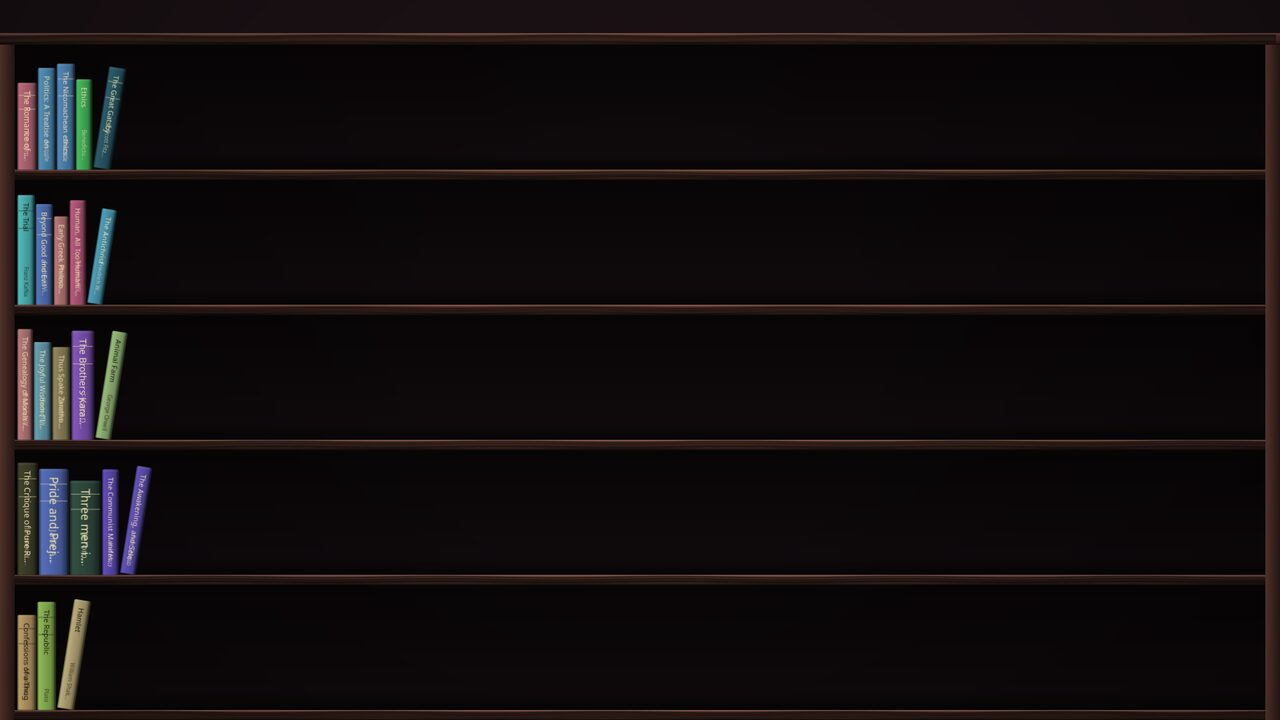
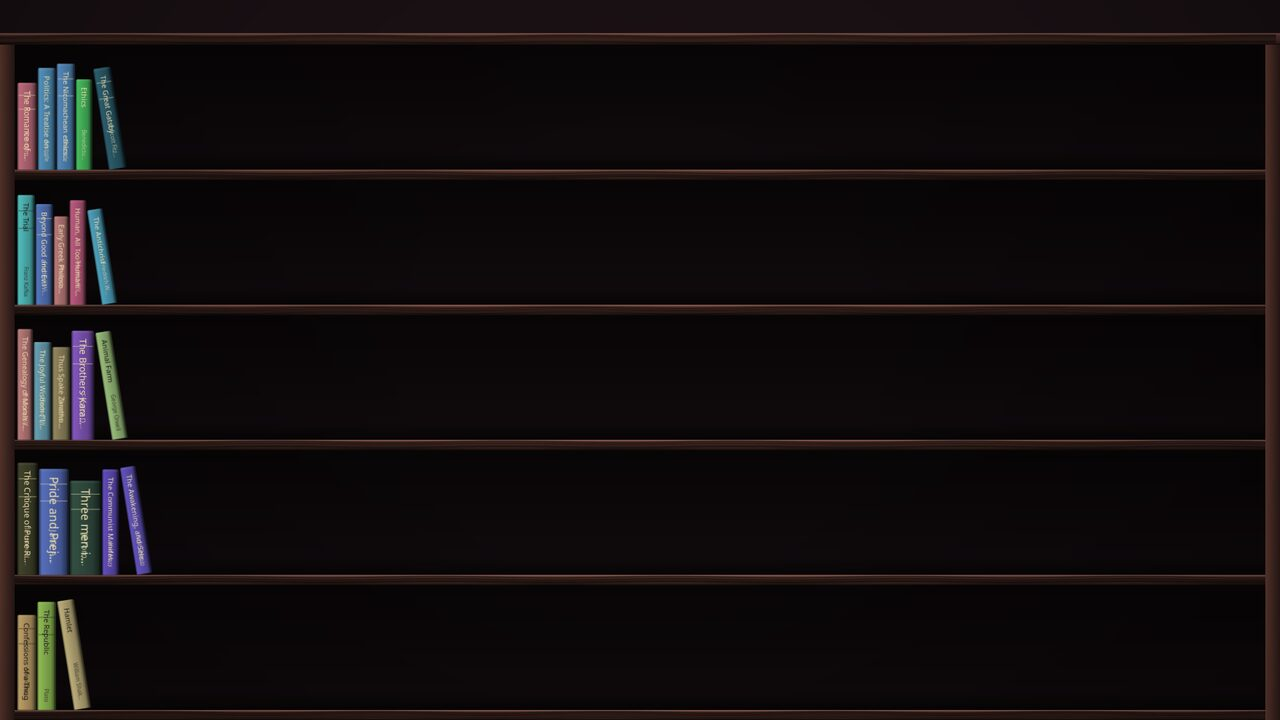
shelf: a book leans onto its neighbour, never into open air
A book only tips towards a side that has something to hold it up -- a
book beside it, or the case wall. The last book on a part-filled shelf
therefore leans left onto its neighbour, and a book with nothing on
either side stands upright.

The lean is drawn as the rest it actually is: the book turns on the
bottom corner still touching the plank and its base then slides along
that plank, so the leaning edge comes to rest flush against the
neighbour instead of passing through it. That overlay was the visible
bug; the direction was the rule behind it.

diff --git a/shelfwall.py b/shelfwall.py
@@ -928,6 +928,19 @@ class Shelf:
         every = int(self.cfg.get("face_out_every", 0) or 0)
         return "face" if (every and idx % every == 0) else "spine"
 
+    @staticmethod
+    def _lean_fit(h, room, tilt_max):
+        """The most a book of height h can lean with `room` beside it."""
+        if room <= 0 or h <= 0:
+            return 0.0
+        return min(tilt_max, math.degrees(
+            math.asin(max(0.0, min(1.0, room / h)))))
+
+    @staticmethod
+    def _pivot(it):
+        """The bottom corner a leaning book turns on: the one still on the plank."""
+        return ((it["x"] if it["deg"] < 0 else it["x"] + it["w"]), it["y_base"])
+
     def _tilt_deg(self):
         if not self.cfg.get("tilt_books", True):
             return 0.0
@@ -1012,11 +1025,13 @@ class Shelf:
             bh = maxh * rnd.uniform(0.74, 1.0)
             kind = self._kind_for(b, idx)
             w = bh * 0.66 if kind == "face" else th
-            # A book asked to lean is given the width it sweeps as it tips, so
-            # it tilts into room of its own rather than through its neighbour.
-            deg = tilt_max if kind == "tilt" else 0.0
-            sizes.append({"w": w, "h": bh, "kind": kind, "deg": deg,
-                          "advance": w + bh * math.sin(math.radians(deg))})
+            # A book asked to lean is given the width its base slides as it
+            # tips. Which side that room ends up on is decided at placement,
+            # once it is known what the book has to lean against.
+            sweep = (bh * math.sin(math.radians(tilt_max))
+                     if kind == "tilt" else 0.0)
+            sizes.append({"w": w, "h": bh, "kind": kind, "sweep": sweep,
+                          "advance": w + sweep})
 
         spacing = 1.2 * s
         span = avail - 8 * s
@@ -1070,24 +1085,35 @@ class Shelf:
 
             gap = x1 - x
             last = len(row_items) - 1
-            for k, (bi, b, bx, sz) in enumerate(row_items):
-                deg = sz["deg"]
-                if (deg == 0.0 and k == last and tilt_max > 0.0
-                        and sz["kind"] == "spine" and gap > 14 * s):
-                    # Tips into the empty end of the shelf, pivoting on the
-                    # bottom corner that stays on the plank, and never further
-                    # than the gap can take. Leaning the other way -- which is
-                    # what this used to do -- swings the board straight through
-                    # the book standing on its left.
-                    room = min(gap - 8 * s, sz["h"])
-                    deg = min(tilt_max, math.degrees(
-                        math.asin(max(0.0, min(1.0, room / sz["h"])))))
+            for k, (bi, b, slot_x, sz) in enumerate(row_items):
+                # A book only ever leans onto something that can hold it up: a
+                # book beside it, or the case wall. Leaning into open air is
+                # what a book does on its way to lying flat, not a pose it
+                # holds, so a book with nothing to rest on stands upright.
+                deg, box_x = 0.0, slot_x
+                leans_left = tilt_max > 0.0 and k > 0 and gap > 14 * s
+                if sz["kind"] == "tilt" and tilt_max > 0.0 and k < last:
+                    # Something stands to its right, so it tips that way and
+                    # rests against it. Its base slides left, into the room
+                    # reserved ahead of it.
+                    deg = tilt_max
+                    box_x = slot_x + sz["sweep"]
+                elif sz["kind"] == "tilt" and leans_left:
+                    deg = -self._lean_fit(sz["h"], gap - 8 * s, tilt_max)
+                elif (k == last and sz["kind"] == "spine" and leans_left):
+                    # The last book on a part-filled shelf: nothing to its
+                    # right, so it tips left onto its neighbour, its base
+                    # sliding out into the gap.
+                    deg = -self._lean_fit(sz["h"], gap - 8 * s, tilt_max)
                 self._items.append({
-                    "b": b, "x": bx, "y": y_base - sz["h"],
+                    "b": b, "x": box_x, "y": y_base - sz["h"],
                     "w": sz["w"], "h": sz["h"],
                     "kind": "face" if sz["kind"] == "face" else "spine",
-                    "deg": deg, "y_base": y_base, "s": s,
-                    "row": r, "index": bi,
+                    "deg": deg,
+                    # How far the base slides so the leaning edge comes to rest
+                    # flush against the neighbour instead of inside it.
+                    "shift": -sz["h"] * math.sin(math.radians(deg)),
+                    "y_base": y_base, "s": s, "row": r, "index": bi,
                 })
 
             wood_plank(cr, 0, y_base, W, plank, wood, r * 97)
@@ -1162,9 +1188,9 @@ class Shelf:
         pad = self._pad
         # A leaning book reaches past its upright box; padding the rectangle by
         # the sweep keeps the hover repaint from leaving a smear behind it.
-        sweep = it["h"] * math.sin(math.radians(it.get("deg", 0.0)))
-        return (it["x"] - pad, it["y"] - pad,
-                it["w"] + pad * 2 + sweep, it["h"] + pad * 2)
+        sweep = abs(it["h"] * math.sin(math.radians(it.get("deg", 0.0))))
+        return (it["x"] - pad - sweep, it["y"] - pad,
+                it["w"] + pad * 2 + sweep * 2, it["h"] + pad * 2)
 
     def animate_step(self):
         """Advance the hover animation; returns the rectangle to repaint."""
@@ -1261,8 +1287,11 @@ class Shelf:
             deg = it.get("deg", 0.0)
             cr.save()
             if deg:
-                # Pivots on the bottom corner that stays on the plank.
-                px, py = it["x"] + it["w"], it["y_base"]
+                # Turn on the bottom corner still touching the plank, then
+                # slide the base along it so the top edge comes to rest
+                # against the neighbour rather than passing through it.
+                px, py = self._pivot(it)
+                cr.translate(it["shift"], 0)
                 cr.translate(px, py)
                 cr.rotate(math.radians(deg))
                 cr.translate(-px, -py)
@@ -1300,10 +1329,10 @@ class Shelf:
             deg = it.get("deg", 0.0)
             qx, qy = px, py
             if deg:
-                # Undo the lean, then test the book's own upright box.
+                # Undo the slide and the lean, then test the upright box.
                 a = math.radians(deg)
-                cx, cy = x + w, it["y_base"]
-                dx, dy = px - cx, py - cy
+                cx, cy = self._pivot(it)
+                dx, dy = px - it["shift"] - cx, py - cy
                 qx = cx + dx * math.cos(a) + dy * math.sin(a)
                 qy = cy - dx * math.sin(a) + dy * math.cos(a)
             if x <= qx <= x + w and y <= qy <= y + h:

diff --git a/tests/test_shelf.py b/tests/test_shelf.py
@@ -52,25 +52,58 @@ missed = [it["b"]["path"] for it in shelf._items
           if shelf.at(it["x"] + it["w"] / 2, it["y"] + it["h"] / 2) is not it["b"]]
 check("all books hit-testable", not missed, missed)
 
-# tilted book: centre of the rotated quad must hit, and it must not overlap
-tilted = [it for it in shelf._items if it.get("deg", 0)]
-check("last book leans", len(tilted) >= 1, [round(it.get("deg",0),1) for it in shelf._items])
-for it in tilted:
+# a leaning book rests on a neighbour: it never leans into open air, and the
+# edge it leans on comes to rest flush against that neighbour, not inside it.
+def fwd(it, px, py):
+    """Where a point of the upright book actually lands once it has leaned."""
     a = math.radians(it["deg"])
-    cx, cy = it["x"] + it["w"], it["y_base"]
-    # top-left corner of the book after the lean
-    dx, dy = it["x"] - cx, it["y"] - cy
-    tx = cx + dx * math.cos(a) - dy * math.sin(a)
-    check("lean moves top rightwards", tx > it["x"], (tx, it["x"]))
-    check("lean hit at rotated centre",
-          shelf.at(cx + (dx/2) * math.cos(a) - (dy/2) * math.sin(a),
-                   cy + (dx/2) * math.sin(a) + (dy/2) * math.cos(a)) is it["b"])
-    # nothing to the left may be swept through
-    row = [o for o in shelf._items if o["row"] == it["row"] and o is not it]
-    if row:
-        left = max(row, key=lambda o: o["x"])
-        check("lean clears left neighbour", tx >= left["x"] + left["w"] - 1,
-              (tx, left["x"] + left["w"]))
+    cx = it["x"] if it["deg"] < 0 else it["x"] + it["w"]
+    cy = it["y_base"]
+    dx, dy = px - cx, py - cy
+    return (cx + dx * math.cos(a) - dy * math.sin(a) + it["shift"],
+            cy + dx * math.sin(a) + dy * math.cos(a))
+
+def row_of(it):
+    return sorted((o for o in shelf._items if o["row"] == it["row"]),
+                  key=lambda o: o["x"])
+
+tilted = [it for it in shelf._items if it.get("deg", 0)]
+check("last book on a part-filled shelf leans", len(tilted) >= 1,
+      [round(i.get("deg", 0), 1) for i in shelf._items])
+
+for it in tilted:
+    row = row_of(it)
+    k = row.index(it)
+    left = row[k - 1] if k > 0 else None
+    right = row[k + 1] if k + 1 < len(row) else None
+
+    if it["deg"] < 0:
+        check("leans left only with a book to rest on", left is not None)
+        check("leans left only with nothing on its right", right is None)
+        # top-left edge lands flush on the neighbour, never inside it
+        tx, _ = fwd(it, it["x"], it["y"])
+        check("left lean rests flush against the neighbour",
+              abs(tx - it["x"]) < 0.6, (tx, it["x"]))
+        check("left lean clears the neighbour",
+              tx >= left["x"] + left["w"] - 0.6, (tx, left["x"] + left["w"]))
+        # the base slides out into the empty end of the shelf
+        bx, _ = fwd(it, it["x"], it["y_base"])
+        check("left lean slides its base into the gap", bx > it["x"] + 1,
+              (bx, it["x"]))
+    else:
+        check("leans right only onto something", right is not None)
+        tx, _ = fwd(it, it["x"] + it["w"], it["y"])
+        check("right lean rests flush against the neighbour",
+              abs(tx - (it["x"] + it["w"])) < 0.6, (tx, it["x"] + it["w"]))
+        bx, _ = fwd(it, it["x"], it["y_base"])
+        check("right lean clears the book on its left",
+              left is None or bx >= left["x"] + left["w"] - 0.6,
+              (bx, left["x"] + left["w"] if left else None))
+
+    # the leaned book is still pickable at the middle of where it now sits
+    mx, my = fwd(it, it["x"] + it["w"] / 2, it["y"] + it["h"] / 2)
+    check("leaning book is hit-testable where it sits",
+          shelf.at(mx, my) is it["b"], it["b"]["title"])
 
 # tilt off => nothing leans
 cfg["tilt_books"] = False
@@ -82,12 +115,23 @@ cfg["tilt_books"] = True
 cfg["book_states"] = {"/b/4.epub": "tilt"}
 shelf.invalidate(); shelf.top_inset = 0.0; shelf._ensure(1920, 1080)
 it4 = shelf._index["/b/4.epub"]
-check("per-book tilt applied", it4["deg"] > 0, it4["deg"])
-nxt = [o for o in shelf._items if o["row"] == it4["row"] and o["x"] > it4["x"]]
-if nxt:
-    right = min(nxt, key=lambda o: o["x"])
-    sweep = it4["x"] + it4["w"] + it4["h"] * math.sin(math.radians(it4["deg"]))
-    check("mid-shelf tilt reserves its sweep", sweep <= right["x"] + 1, (sweep, right["x"]))
+check("per-book tilt applied", it4["deg"] != 0, it4["deg"])
+row4 = row_of(it4)
+k4 = row4.index(it4)
+if k4 + 1 < len(row4):
+    right = row4[k4 + 1]
+    check("mid-shelf tilt leans onto the book at its right", it4["deg"] > 0,
+          it4["deg"])
+    # leaning right, the book's own right edge is where it comes to rest, and
+    # the reserved room is behind it, so the book to its right is untouched
+    tx, _ = fwd(it4, it4["x"] + it4["w"], it4["y"])
+    check("mid-shelf tilt does not reach its right neighbour",
+          tx <= right["x"] + 0.6, (tx, right["x"]))
+    bx, _ = fwd(it4, it4["x"], it4["y_base"])
+    left4 = row4[k4 - 1] if k4 > 0 else None
+    check("mid-shelf tilt does not reach its left neighbour",
+          left4 is None or bx >= left4["x"] + left4["w"] - 0.6,
+          (bx, left4["x"] + left4["w"] if left4 else None))
 
 # per-book cover state
 cfg["book_states"] = {"/b/2.epub": "spine"}

diff --git a/README.md b/README.md
@@ -11,7 +11,7 @@ runs perfectly well on its own.
 
 ![Shelves in front of the wallpaper](docs/shelf-wallpaper.jpg)
 
-![Spines, with the last book on each shelf leaning into the gap](docs/shelf-spines.jpg)
+![Spines, with the last book on each shelf leaning back onto its neighbour](docs/shelf-spines.jpg)
 
 ## What it does
 
@@ -19,7 +19,8 @@ runs perfectly well on its own.
   a book. Cover art, title, author and spine colour are taken from the file —
   spine colour from the cover, thickness from the file size.
 - **Draws a real bookcase.** Planks, uprights, a top beam, shadows under each
-  shelf, and books that lean into the gap at the end of a row.
+  shelf, and a last book on a part-filled shelf that leans back onto its
+  neighbour with its base out in the gap, the way a real one does.
 - **Opens books in place.** Clicking a book turns the wallpaper into a reader:
   chapters, a table of contents, search, remembered position and a progress
   bar. No separate window, no application to alt-tab to.
@@ -95,9 +96,12 @@ Right-clicking a book lets that one book ignore the shelf-wide display mode:
 - **Auto** — follow the shelf setting
 - **Cover** — stand face out
 - **Spine** — stand spine out
-- **Tilted** — lean, wherever it happens to sit
+- **Tilted** — lean
 
-The choice is saved, so it survives a restart.
+A book only ever leans onto something that can hold it up: the book beside it,
+or the case wall. One with nothing to rest against stands upright, because
+leaning into open air is what a book does on its way to lying flat, not a pose
+it holds. The choice is saved, so it survives a restart.
 
 ### The wall behind the shelves
 
@@ -120,7 +124,7 @@ written straight to `~/.config/shelfwall/config.json`.
 | `book_order` | The dragged arrangement, as a list of paths |
 | `book_states` | Per-book view overrides, keyed by path |
 | `tilt_books` | Whether books lean at all |
-| `tilt_angle` | How far, in degrees. Clamped to the gap that is actually there |
+| `tilt_angle` | How far, in degrees. Clamped to the room actually beside the book |
 | `wall_mode` | `color` or `wallpaper` |
 | `wallpaper_path`, `wallpaper_dim` | The picture, and how far it is darkened |
 | `reader_full_width` | Full-bleed text, or a capped measure |
